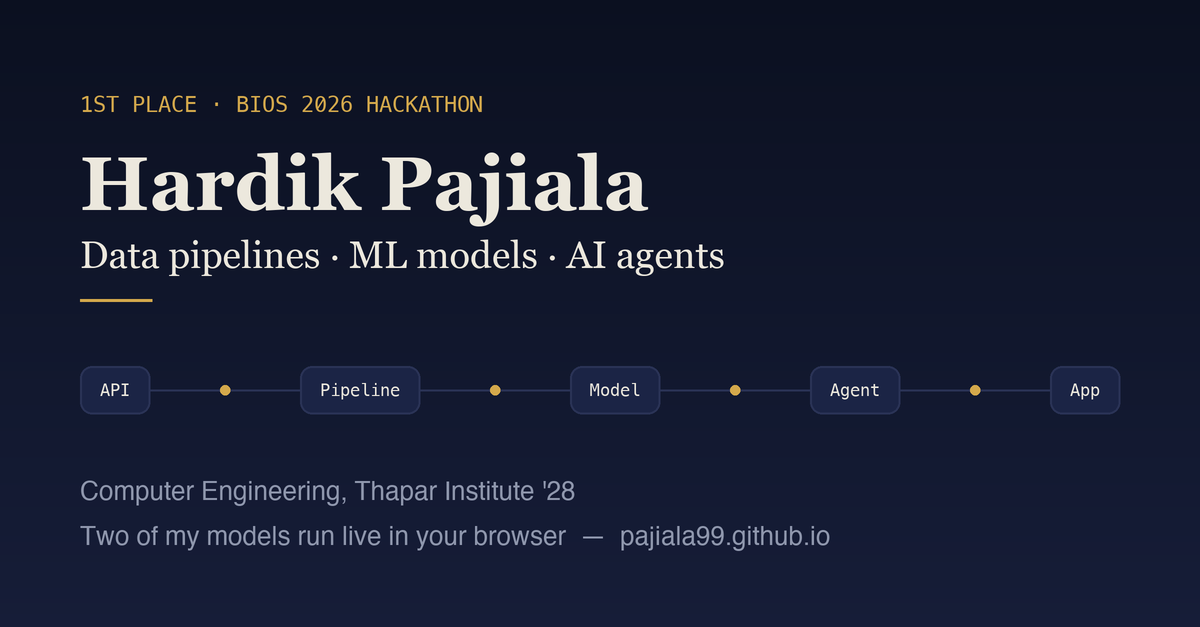
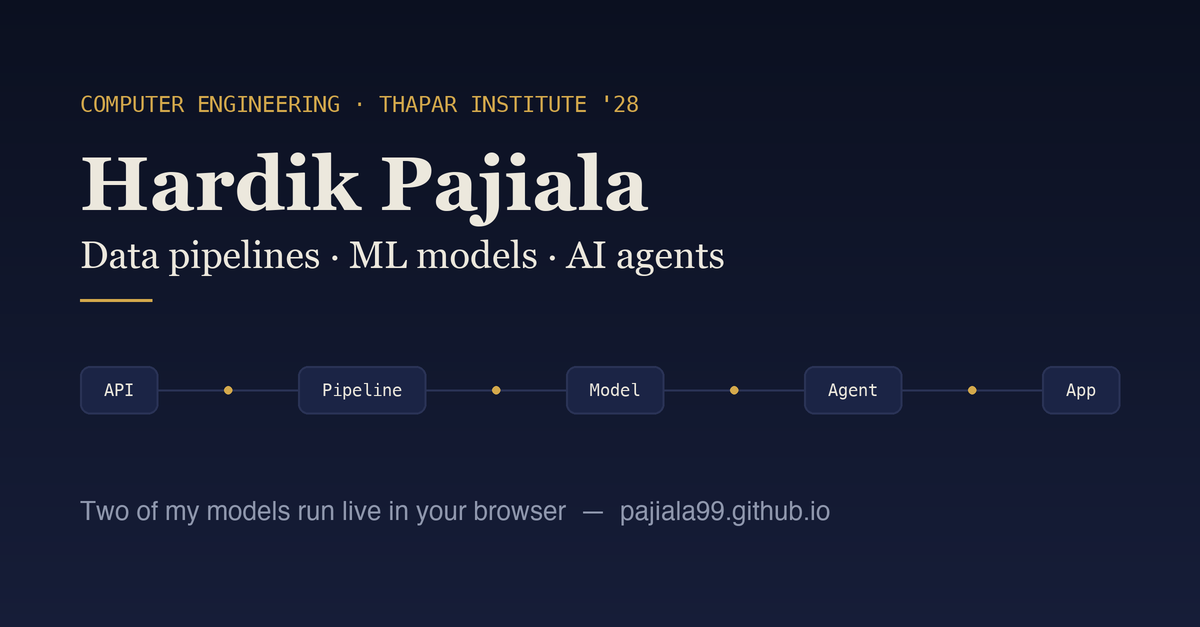
Portfolio: link preview without the hackathon line

diff --git a/index.html b/index.html
@@ -6,11 +6,11 @@
 <meta property="og:type" content="website">
 <meta property="og:url" content="https://pajiala99.github.io/">
 <meta property="og:title" content="Hardik Pajiala: data pipelines, ML models and AI agents">
-<meta property="og:description" content="Computer Engineering, Thapar Institute '28. First place at the BIOS 2026 hackathon. Projects with live demos: a sign-language model and a cricket win-probability model that run in your browser.">
+<meta property="og:description" content="Computer Engineering, Thapar Institute '28. Projects with live demos: a sign-language model and a cricket win-probability model that run in your browser.">
 <meta property="og:image" content="https://pajiala99.github.io/assets/og-card.png">
 <meta property="og:image:width" content="1200">
 <meta property="og:image:height" content="627">
-<meta property="og:image:alt" content="Hardik Pajiala: data pipelines, ML models and AI agents. First place, BIOS 2026 hackathon.">
+<meta property="og:image:alt" content="Hardik Pajiala: data pipelines, ML models and AI agents. Computer Engineering, Thapar Institute '28.">
 <meta name="twitter:card" content="summary_large_image">
 <link rel="preconnect" href="https://fonts.googleapis.com">
 <link rel="preconnect" href="https://fonts.gstatic.com" crossorigin>
